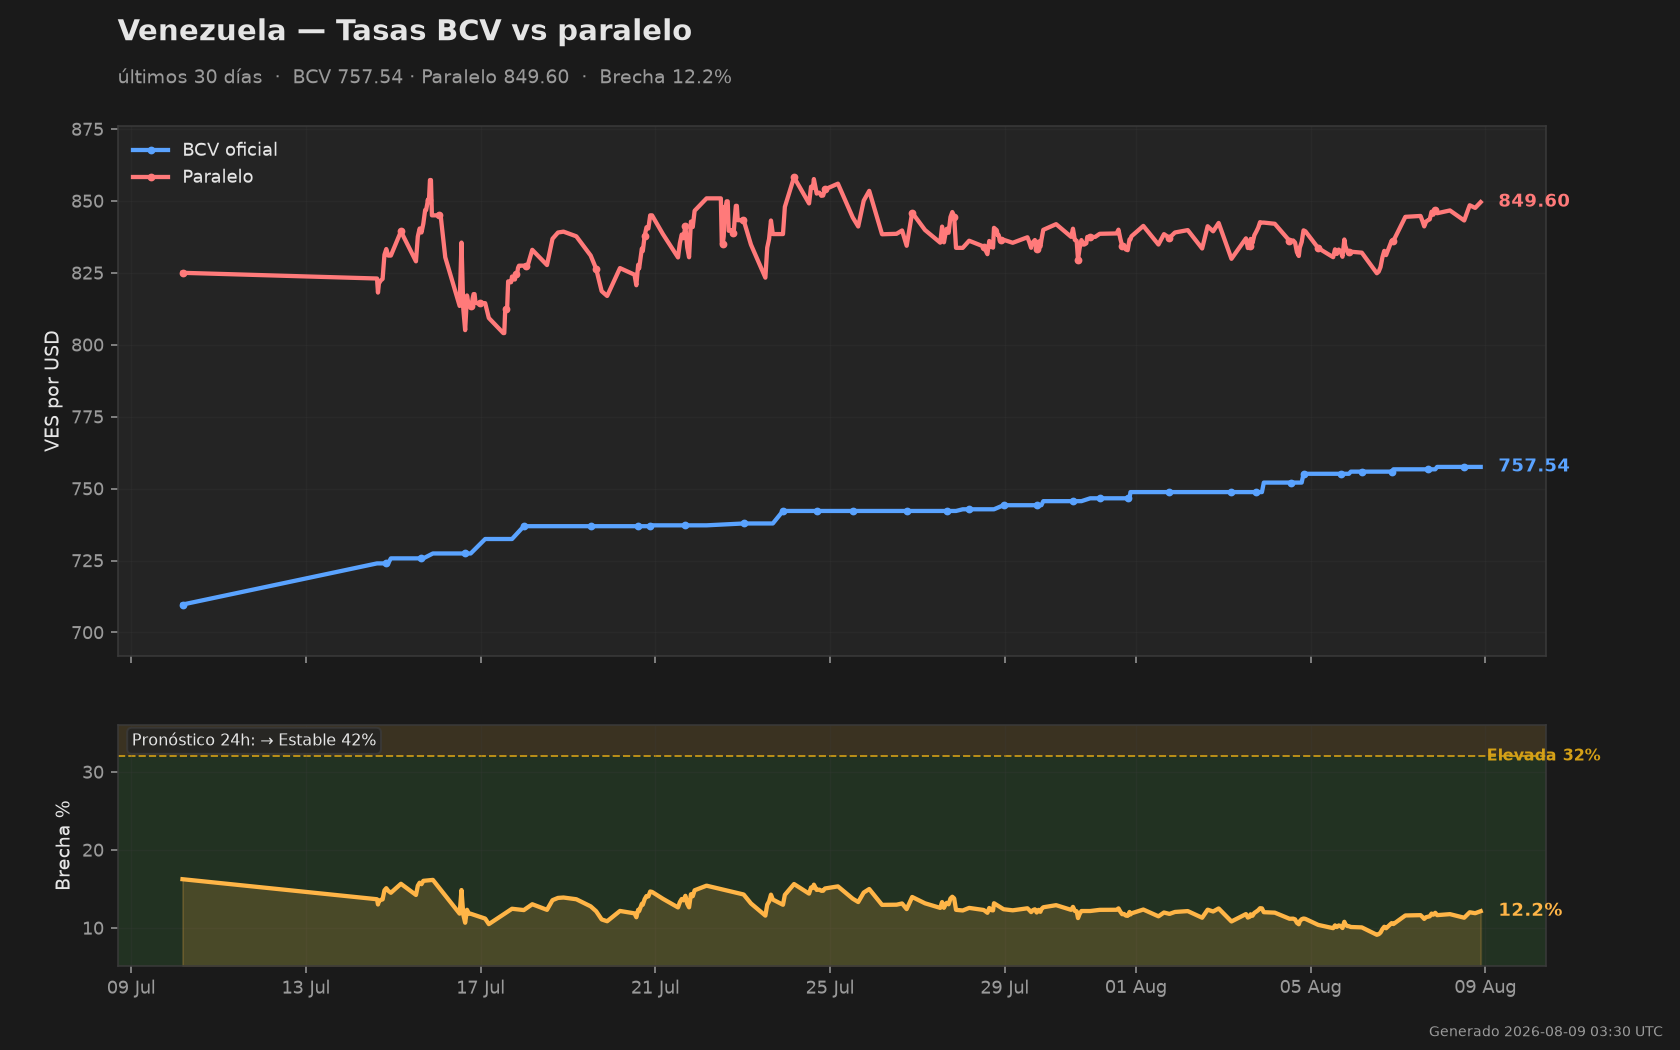
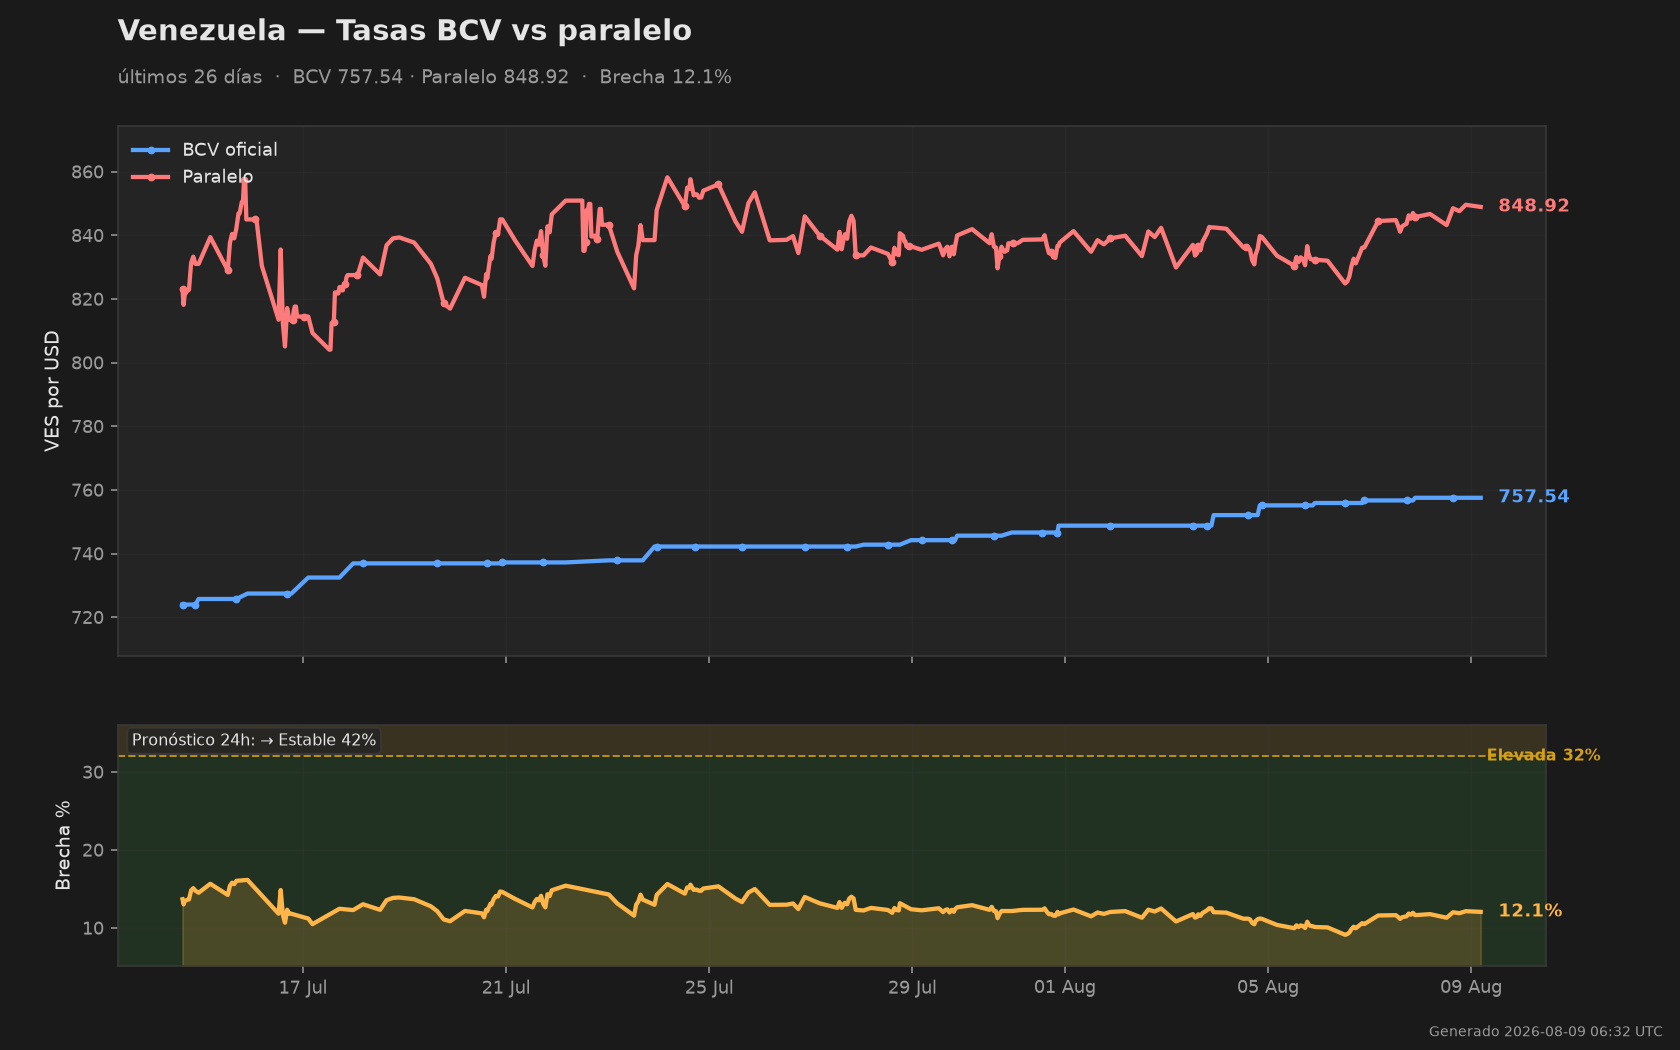
Dashboard update 2026-08-09 06:32 UTC

diff --git a/README.md b/README.md
@@ -11,11 +11,11 @@
 | Metric · Métrica | Value · Valor |
 |---|---|
 | BCV Oficial | **757.54** VES/USD |
-| Paralelo | **849.60** VES/USD |
-| Brecha · Spread | **12.2%** |
-| Binance P2P USDT/VES | **862.05** VES/USDT (+1.5% vs paralelo) |
+| Paralelo | **848.92** VES/USD |
+| Brecha · Spread | **12.1%** |
+| Binance P2P USDT/VES | **863.98** VES/USDT (+1.8% vs paralelo) |
 | **Pronóstico 24h · 24h Forecast** | **→ Estable · Stable (70%)** |
-| Actualizado · Updated | 2026-08-08 21:29 UTC |
+| Actualizado · Updated | 2026-08-09 04:31 UTC |
 
 ![Venezuela BCV vs parallel rate — last 30 days](data/chart.png)
 
